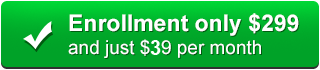
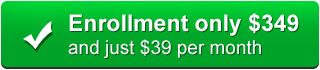
Price changed to $299 to $349
Also solved footer navigation issue..

diff --git a/css/style.css b/css/style.css
@@ -207,10 +207,10 @@ nav ul li:hover a {color:#FFFFFF;}
 .footerbg .gridboximg { width:36%; float:left; margin-right:1%; margin-top:2%; }
 
 .footerbg .gridboxleft .title { width:100%; float:left;font-family: 'Arial'; font-size:17px; color:#fff; padding:15px 0px;font-weight:bold; }
-.footerbg .gridboxleft .grid-txt { font-size:14px; color:#888787; margin:0; padding-top:5%; width:95%; float:left;  }
+.footerbg .gridboxleft .grid-txt { font-size:14px; color:#888787; margin:0; padding-top:1%; width:95%; float:left;  }
 
 .footerbg .gridboxright .title { width:100%; float:left;font-family: 'Arial'; font-size:17px; color:#fff; padding:15px 0px;font-weight:bold; }
-.footerbg .gridboxright .grid-txt { font-size:14px; color:#888787; margin:0; padding-top:5%; width:95%; float:left; }
+.footerbg .gridboxright .grid-txt { font-size:14px; color:#888787; margin:0; padding-top:1%; width:95%; float:left; }
 
 .footerbluestrip { background-color:#3e9f00; height:40px; }
 .footergraytrip { background-color:#fefefe; height:40px; }

diff --git a/learn-more.html b/learn-more.html
@@ -131,7 +131,7 @@
 			<br /><br /><br />
 
 			<div class="PageTitle">Affordable? You Bet.</div>
-			The enrollment fee is only $299, and then it's only $39 a month. As we put you on more websites, you don't pay a thing - that's right, our rate stays the same. Which means that as we get you on more websites, you get noticed more, which means you get more money. Who doesn't like that?
+			The enrollment fee is only $349, and then it's only $39 a month. As we put you on more websites, you don't pay a thing - that's right, our rate stays the same. Which means that as we get you on more websites, you get noticed more, which means you get more money. Who doesn't like that?
 			<Br />
 			<div class="boxL">
 				Annual<br />Small Business<br />Marketing Budget

diff --git a/pricing.html b/pricing.html
@@ -103,7 +103,7 @@
 				<span class="PagesmallTitlenoborder">Use FastRank to control your<br />
 				business visibility online.</span><br />
 				<span class="PageTitlenoborder">Satisfaction Guaranteed!</span><br />
-				<span class="bluetext">One-time setup $299</span><br />
+				<span class="bluetext">One-time setup $349</span><br />
 				<span class="PageTitlenoborder">$39 per month</span><br />
                 <a href="https://sync.fastrank.net/users/sign_up?package_id=6"><img src="images/start_here_button.png" /></a><br /><br />
 			  </div>

diff --git a/index.html b/index.html
@@ -173,7 +173,7 @@
 		<div id="wrapper">
 			<section class="grid">
 			  <div class="gridboxleft">
-				<div class="title">Businesses face several challenges managing their online presence.</div>
+				<div class="title">Businesses face several challeges managing their online presence.</div>
 				<div class="grid-txt">
 					Business information changes regularly - not only as your business opens, closes, or moves,
 but also with special offers, new products, job openings, holiday hours and more.<br /><br />
